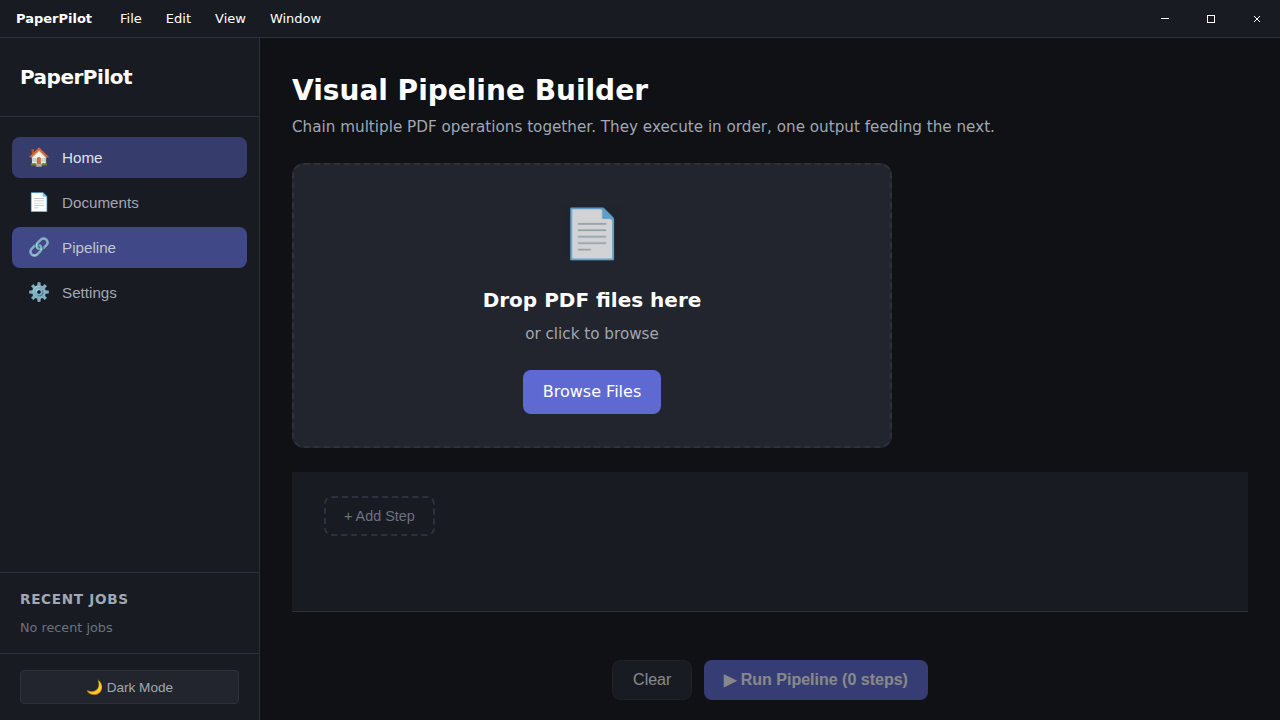
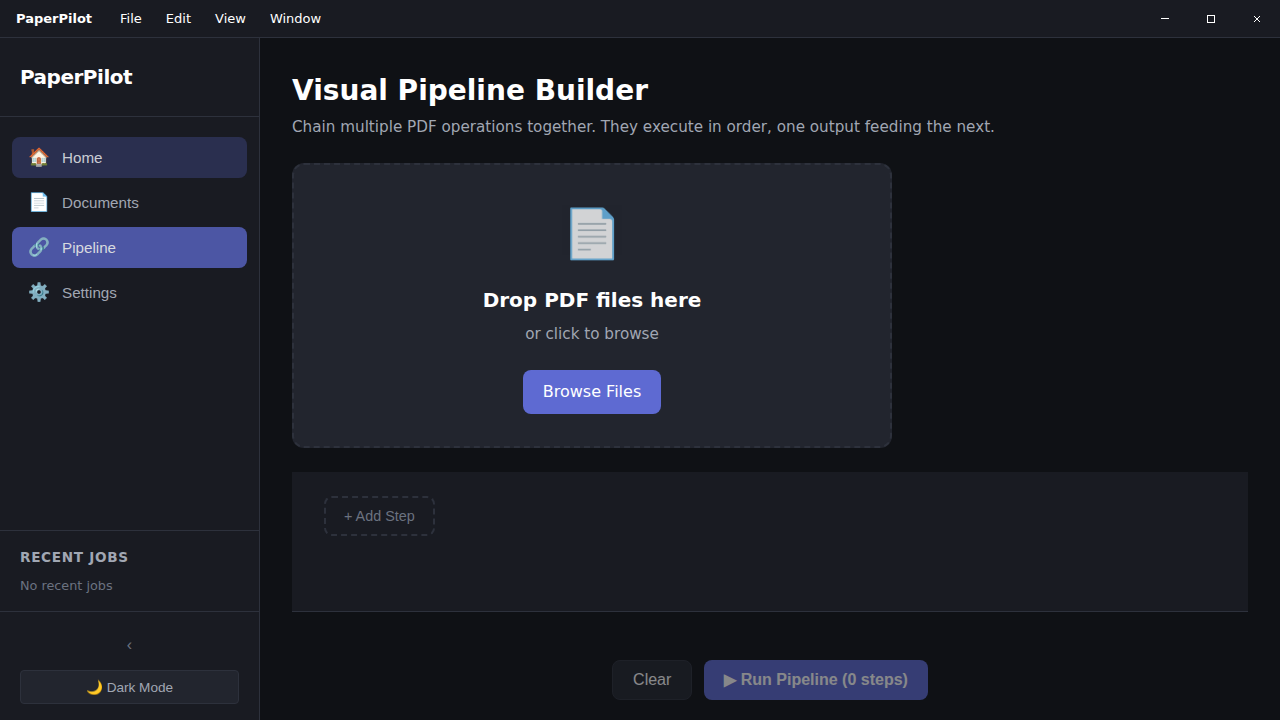
jules: Replace static page and zoom with interactive inputs in PdfToolbar (#77)
Replaced static text displays in `PdfToolbar.svelte` with an interactive page jump input and a zoom preset dropdown with a "Fit" width button, implemented using Svelte 5 runes and vanilla CSS. Preserved all keyboard shortcuts and event listeners.

Changed region(s): [[0.0, 0.3056, 0.2188, 0.3972], [0.0, 0.1833, 0.2188, 0.2444], [0.0, 0.7639, 0.125, 0.8861]]

diff --git a/apps/desktop/src/lib/components/PdfToolbar.svelte b/apps/desktop/src/lib/components/PdfToolbar.svelte
@@ -7,6 +7,37 @@
     scale = $bindable(1.2),
   } = $props();
 
+  let inputPage = $state(String(pageNum));
+  let isEditingPage = $state(false);
+
+  // Keep local page input in sync with external page changes (thumbnails, jumpToPage)
+  $effect(() => {
+    if (!isEditingPage) {
+      inputPage = String(pageNum);
+    }
+  });
+
+  function applyPageJump() {
+    isEditingPage = false;
+    const parsed = parseInt(inputPage, 10);
+    if (!isNaN(parsed) && parsed >= 1 && parsed <= (numPages || 1)) {
+      pageNum = parsed;
+    } else {
+      inputPage = String(pageNum);
+    }
+  }
+
+  function handlePageKeydown(e: KeyboardEvent) {
+    if (e.key === 'Enter') {
+      applyPageJump();
+      (e.target as HTMLInputElement).blur();
+    } else if (e.key === 'Escape') {
+      inputPage = String(pageNum);
+      isEditingPage = false;
+      (e.target as HTMLInputElement).blur();
+    }
+  }
+
   function prevPage() {
     if (pageNum > 1) {
       pageNum -= 1;
@@ -20,13 +51,15 @@
   }
 
   function zoomIn() {
-    scale += 0.2;
+    scale = Math.min(Math.round((scale + 0.2) * 10) / 10, 5.0);
   }
 
   function zoomOut() {
-    if (scale > 0.4) {
-      scale -= 0.2;
-    }
+    scale = Math.max(Math.round((scale - 0.2) * 10) / 10, 0.2);
+  }
+
+  function setZoomPreset(val: number) {
+    scale = val;
   }
 
   onMount(() => {
@@ -47,37 +80,96 @@
 </script>
 
 <div class="toolbar">
+  <!-- Page Navigation Group with Direct Page Input -->
   <div class="toolbar-group">
     <button
       class="toolbar-btn"
+      id="toolbar-prev-page"
       onclick={prevPage}
       disabled={pageNum <= 1}
-      title="Previous Page"
+      title="Previous Page (Left Arrow)"
     >
-      Prev
+      ‹
     </button>
-    <span class="page-info">
-      Page {pageNum} of {numPages || 1}
-    </span>
+
+    <div class="page-jump-container">
+      <input
+        type="text"
+        id="toolbar-page-input"
+        class="page-input"
+        bind:value={inputPage}
+        onfocus={() => isEditingPage = true}
+        onblur={applyPageJump}
+        onkeydown={handlePageKeydown}
+        title="Type page number and press Enter"
+        aria-label="Current page number"
+      />
+      <span class="page-total">/ {numPages || 1}</span>
+    </div>
+
     <button
       class="toolbar-btn"
+      id="toolbar-next-page"
       onclick={nextPage}
       disabled={pageNum >= numPages}
-      title="Next Page"
+      title="Next Page (Right Arrow)"
     >
-      Next
+      ›
     </button>
   </div>
 
+  <!-- Zoom Controls with Presets Dropdown & Buttons -->
   <div class="toolbar-group">
-    <button class="toolbar-btn" onclick={zoomOut} title="Zoom Out" disabled={scale <= 0.4}>
-      Zoom Out
+    <button
+      class="toolbar-btn"
+      id="toolbar-zoom-out"
+      onclick={zoomOut}
+      title="Zoom Out (Ctrl -)"
+      disabled={scale <= 0.2}
+    >
+      −
     </button>
-    <span class="zoom-info">
-      {Math.round(scale * 100)}%
-    </span>
-    <button class="toolbar-btn" onclick={zoomIn} title="Zoom In">
-      Zoom In
+
+    <div class="zoom-dropdown-wrapper">
+      <select
+        id="toolbar-zoom-select"
+        class="zoom-select"
+        value={Math.round(scale * 100)}
+        onchange={(e) => setZoomPreset(parseInt((e.target as HTMLSelectElement).value, 10) / 100)}
+        title="Zoom Preset"
+        aria-label="Zoom level"
+      >
+        <option value="50">50%</option>
+        <option value="75">75%</option>
+        <option value="100">100%</option>
+        <option value="125">125%</option>
+        <option value="150">150%</option>
+        <option value="175">175%</option>
+        <option value="200">200%</option>
+        <option value="300">300%</option>
+        {#if ![50, 75, 100, 125, 150, 175, 200, 300].includes(Math.round(scale * 100))}
+          <option value={Math.round(scale * 100)}>{Math.round(scale * 100)}%</option>
+        {/if}
+      </select>
+    </div>
+
+    <button
+      class="toolbar-btn"
+      id="toolbar-zoom-in"
+      onclick={zoomIn}
+      title="Zoom In (Ctrl +)"
+      disabled={scale >= 5.0}
+    >
+      +
+    </button>
+
+    <button
+      class="toolbar-btn-text"
+      id="toolbar-fit-width"
+      onclick={() => scale = 1.0}
+      title="Reset to 100% (Fit Width)"
+    >
+      Fit
     </button>
   </div>
 </div>
@@ -87,46 +179,120 @@
     display: flex;
     justify-content: center;
     align-items: center;
-    gap: 2rem;
-    padding: 0.75rem 1rem;
+    gap: 1.5rem;
+    padding: 0.5rem 1rem;
     background-color: var(--bg-surface, #ffffff);
     border-bottom: 1px solid var(--border-color, #e5e7eb);
-    box-shadow: 0 1px 3px rgba(0,0,0,0.05);
+    box-shadow: var(--shadow-sm, 0 1px 3px rgba(0,0,0,0.05));
     z-index: 10;
   }
 
   .toolbar-group {
     display: flex;
     align-items: center;
-    gap: 0.5rem;
+    gap: 0.35rem;
   }
 
   .toolbar-btn {
-    padding: 0.4rem 0.8rem;
-    background-color: var(--bg-primary, #f9fafb);
+    display: flex;
+    align-items: center;
+    justify-content: center;
+    width: 28px;
+    height: 28px;
+    background-color: var(--bg-surface, #ffffff);
     border: 1px solid var(--border-color, #d1d5db);
-    border-radius: 4px;
-    font-size: 0.9rem;
+    border-radius: var(--border-radius-sm, 4px);
+    font-size: 1rem;
+    font-weight: 500;
     color: var(--text-primary, #374151);
     cursor: pointer;
-    transition: all 0.2s;
+    transition: all var(--transition-fast, 0.15s ease);
+    padding: 0;
   }
 
   .toolbar-btn:hover:not(:disabled) {
     background-color: var(--bg-surface-hover, #f3f4f6);
-    border-color: var(--accent-primary, #3b82f6);
-    color: var(--accent-primary, #3b82f6);
+    border-color: var(--accent-primary, #5e6ad2);
+    color: var(--accent-primary, #5e6ad2);
   }
 
   .toolbar-btn:disabled {
-    opacity: 0.5;
+    opacity: 0.4;
     cursor: not-allowed;
   }
 
-  .page-info, .zoom-info {
-    font-size: 0.9rem;
-    color: var(--text-secondary, #4b5563);
-    min-width: 80px;
+  .toolbar-btn-text {
+    height: 28px;
+    padding: 0 8px;
+    background-color: var(--bg-surface, #ffffff);
+    border: 1px solid var(--border-color, #d1d5db);
+    border-radius: var(--border-radius-sm, 4px);
+    font-size: 0.8rem;
+    font-weight: 500;
+    color: var(--text-secondary, #6b7280);
+    cursor: pointer;
+    transition: all var(--transition-fast, 0.15s ease);
+  }
+
+  .toolbar-btn-text:hover {
+    color: var(--accent-primary, #5e6ad2);
+    border-color: var(--accent-primary, #5e6ad2);
+    background-color: var(--bg-surface-hover, #f3f4f6);
+  }
+
+  .page-jump-container {
+    display: flex;
+    align-items: center;
+    gap: 4px;
+    background: var(--bg-primary, #f9fafb);
+    border: 1px solid var(--border-color, #d1d5db);
+    border-radius: var(--border-radius-sm, 4px);
+    padding: 0 6px;
+    height: 28px;
+  }
+
+  .page-input {
+    width: 32px;
+    height: 22px;
+    background: transparent;
+    border: none;
     text-align: center;
+    font-size: 0.85rem;
+    font-weight: 500;
+    color: var(--text-primary, #111827);
+    outline: none;
+    padding: 0;
+  }
+
+  .page-input:focus {
+    background: var(--bg-surface, #ffffff);
+    border-radius: 2px;
+  }
+
+  .page-total {
+    font-size: 0.85rem;
+    color: var(--text-muted, #9ca3af);
+    white-space: nowrap;
+  }
+
+  .zoom-dropdown-wrapper {
+    position: relative;
+  }
+
+  .zoom-select {
+    height: 28px;
+    padding: 0 6px;
+    background-color: var(--bg-primary, #f9fafb);
+    border: 1px solid var(--border-color, #d1d5db);
+    border-radius: var(--border-radius-sm, 4px);
+    font-size: 0.85rem;
+    color: var(--text-primary, #374151);
+    cursor: pointer;
+    outline: none;
+    font-weight: 500;
+  }
+
+  .zoom-select:hover {
+    border-color: var(--accent-primary, #5e6ad2);
   }
 </style>
